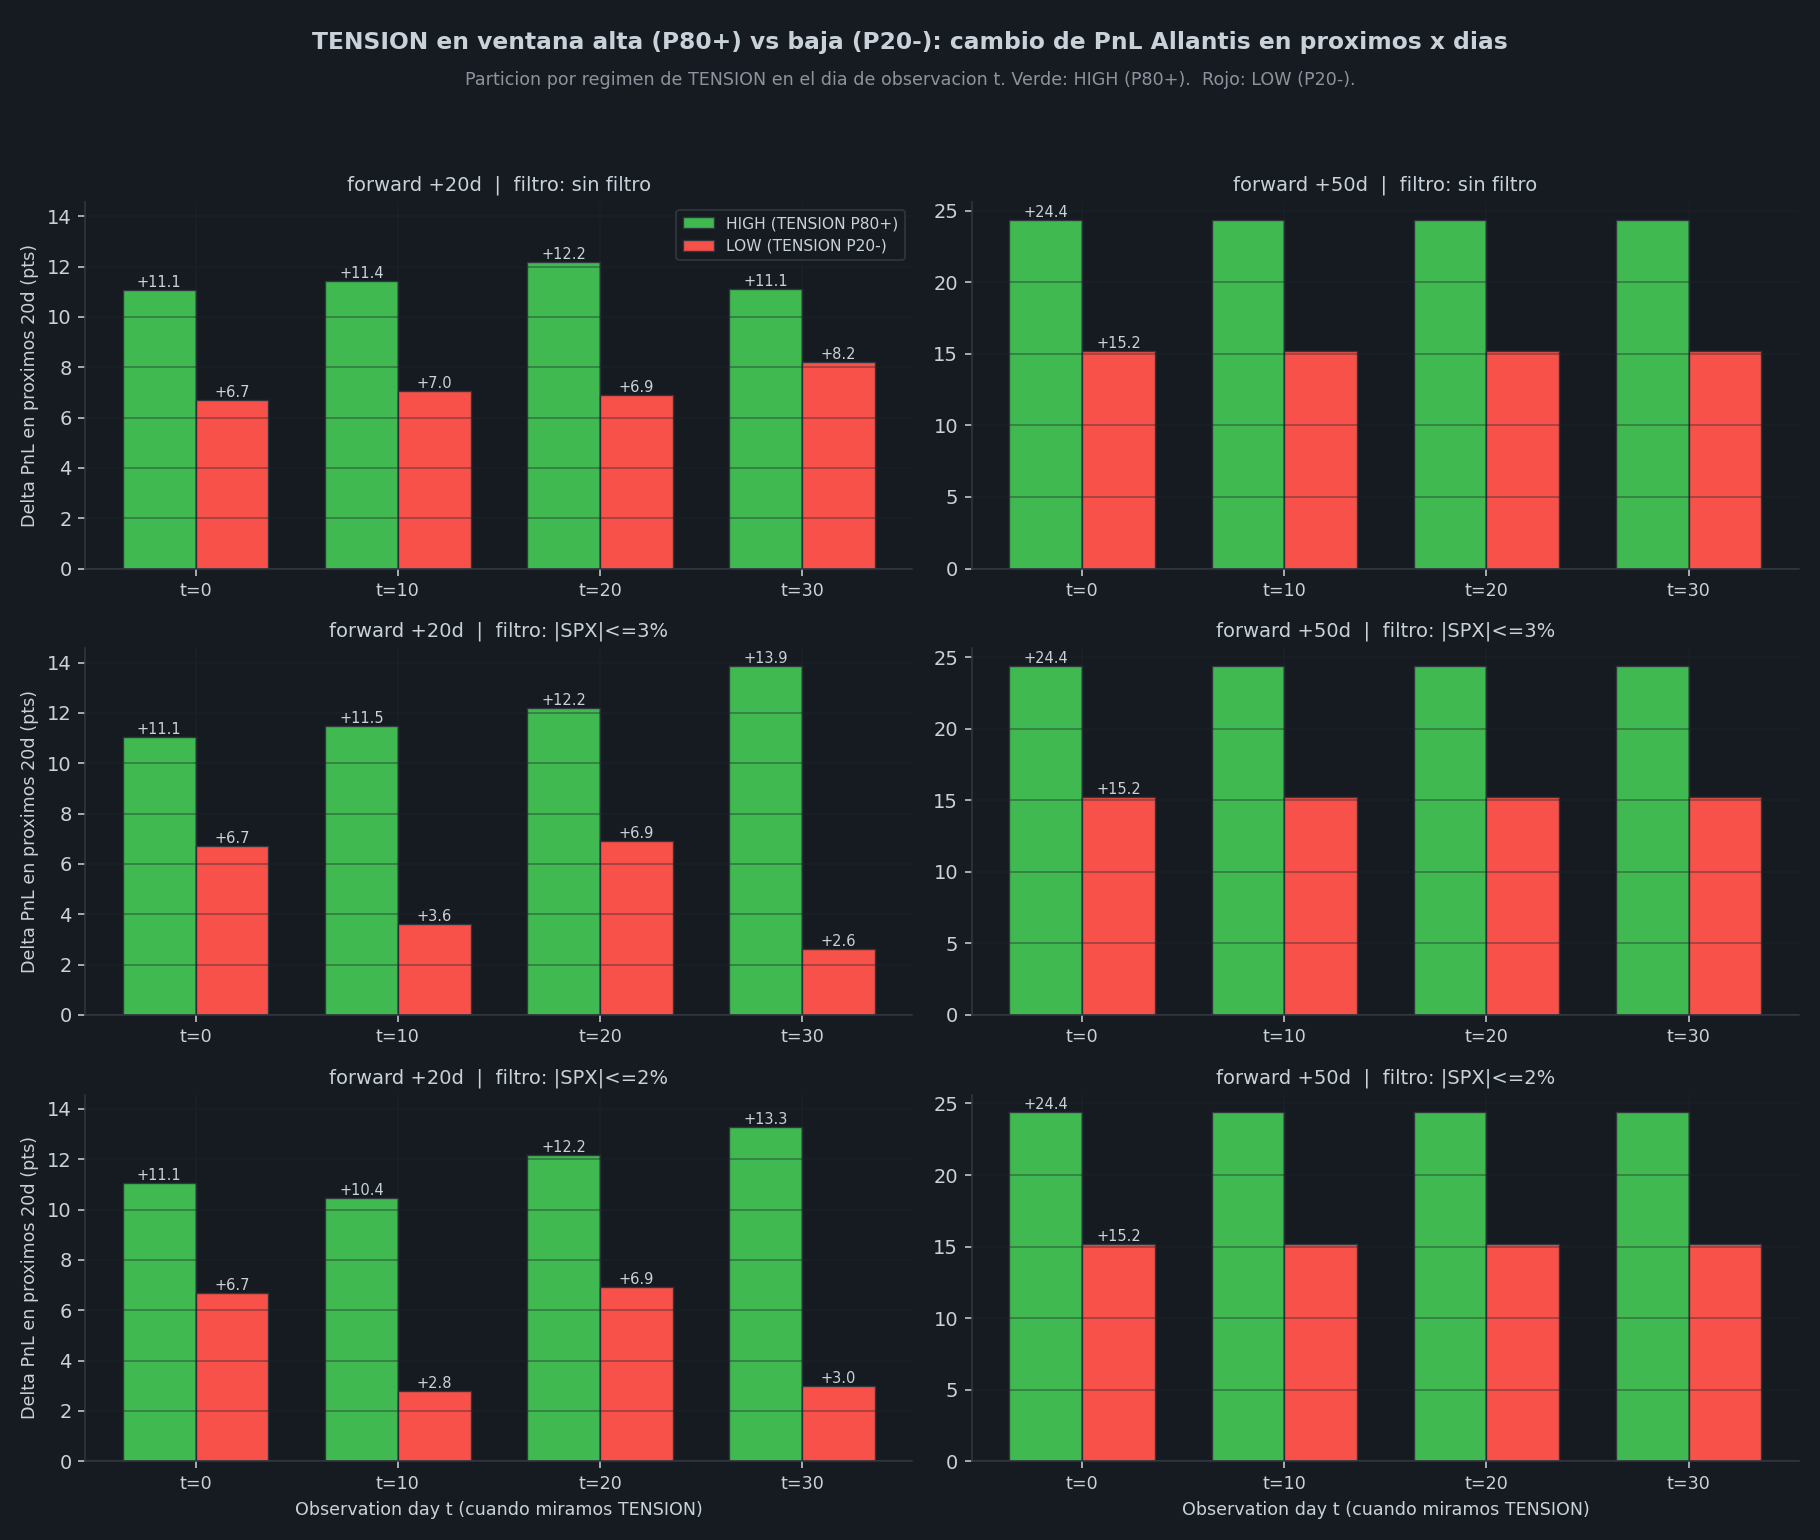
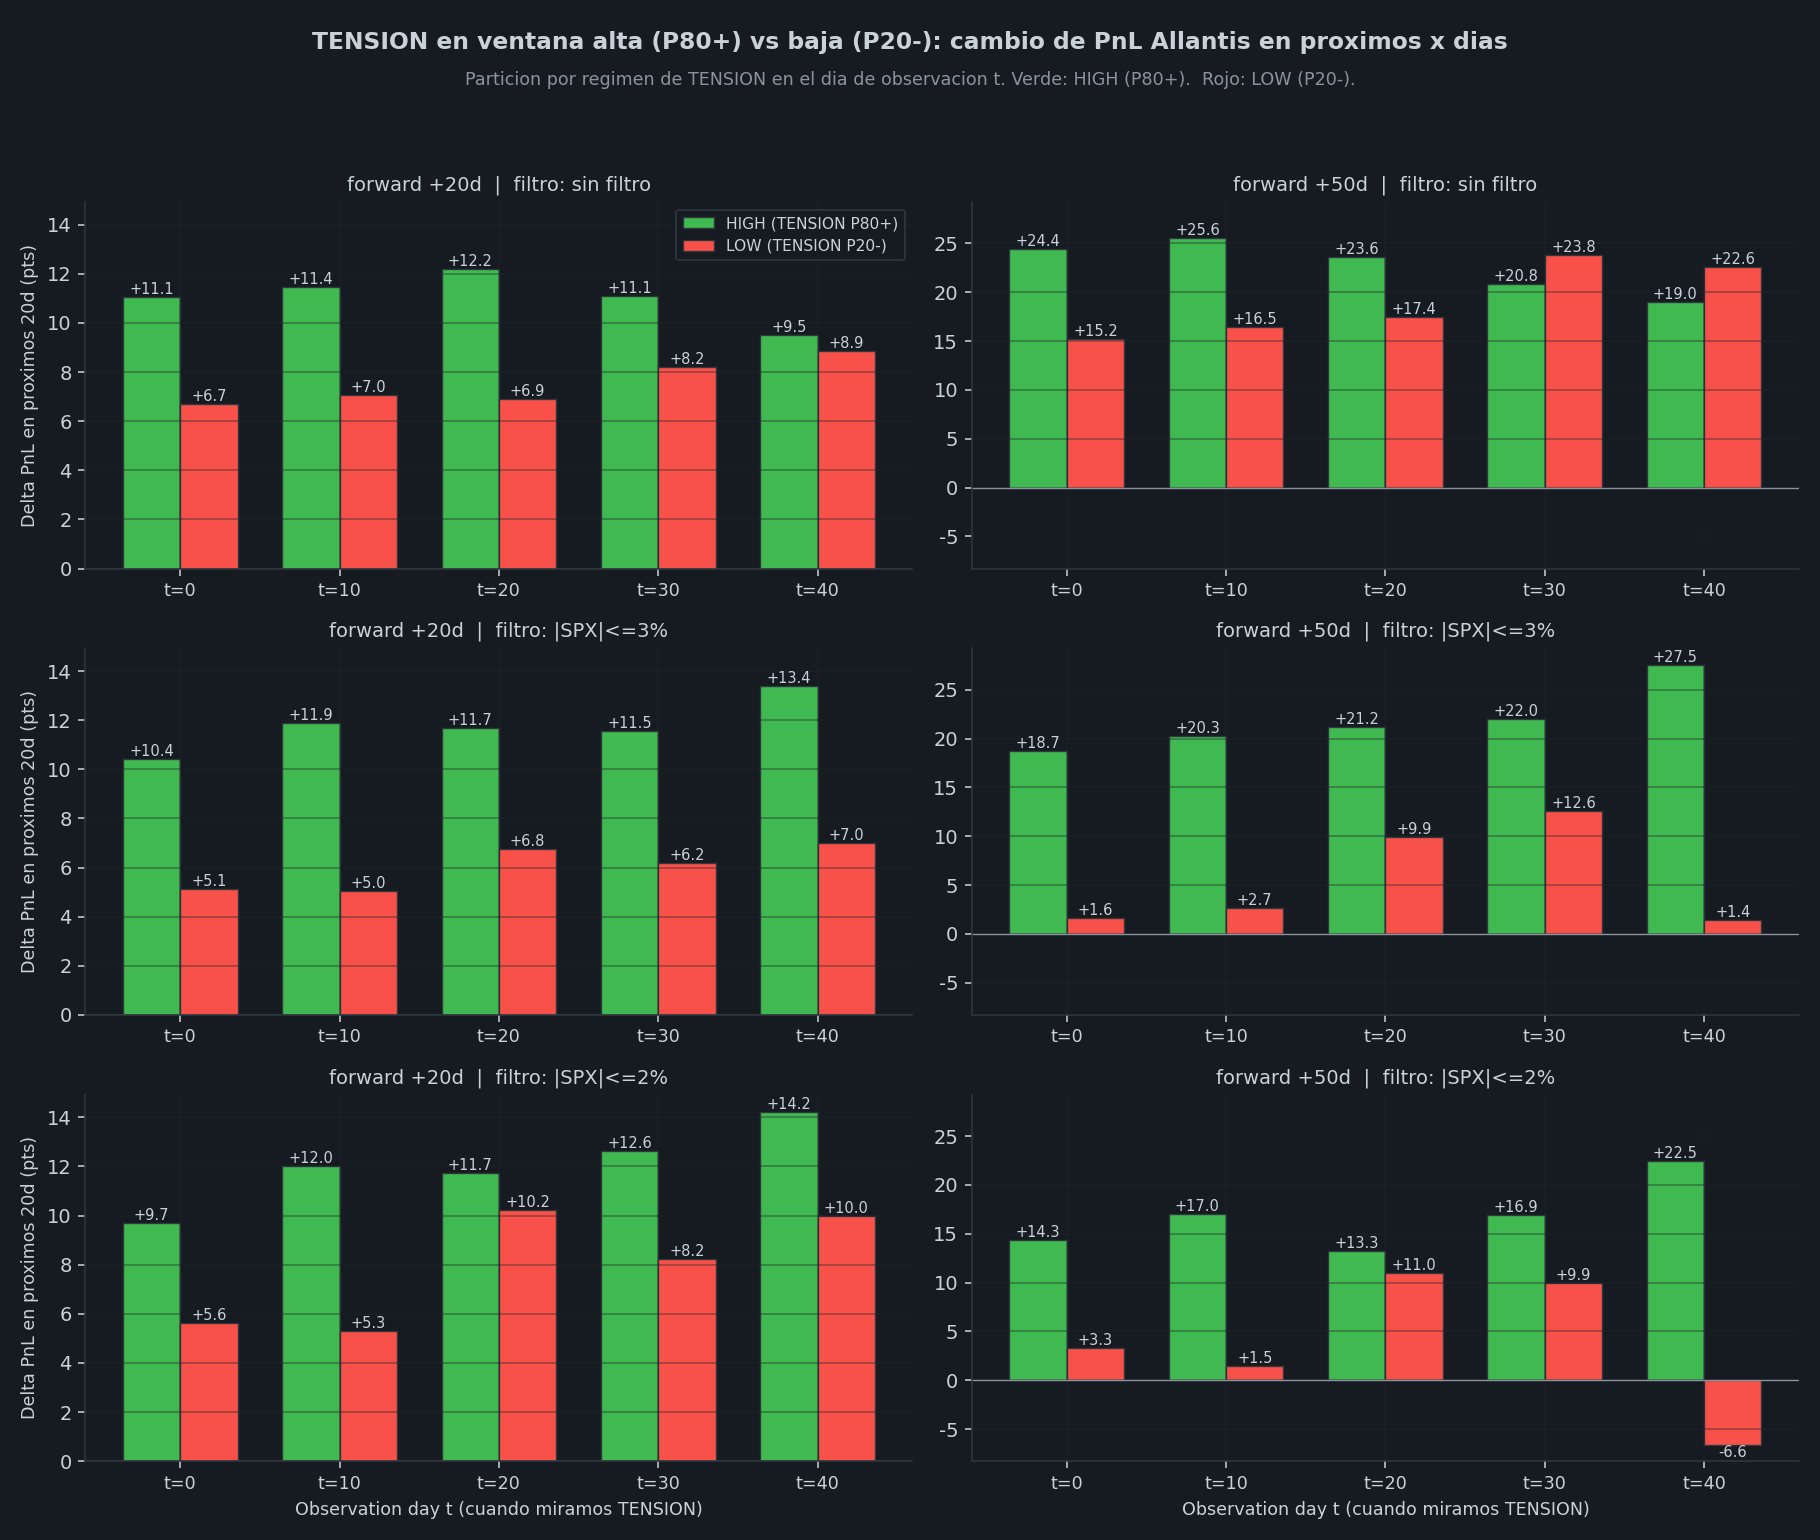
fix(window-forward): load PnL_d050..d090 + harden plot vs missing cells

diff --git a/generate_evidence.py b/generate_evidence.py
@@ -217,7 +217,14 @@ def load_dataset() -> Dataset:
         raise FileNotFoundError(f"TENSION daily CSV not found: {TENSION_DAILY_CSV}")
 
     pnl_cols = [f"PnL_d{d:03d}_mediana" for d in WINDOWS]
-    extra_cols = [f"PnL_d{PNL_REF_HORIZON:03d}_mediana", "PnL_d050_mediana", SPX_FILTER_COL]
+    # Window-forward needs PnL_d{t+x} where t in WF_OBS_DAYS and x in WF_FORWARDS
+    # max(t+x) = 40 + 50 = 90, so we need to load PnL_d050..d090 in addition to d001..d049
+    wf_extra_pnl = [f"PnL_d{d:03d}_mediana" for d in range(50, 91)]
+    wf_extra_spx = [f"SPX_chg_pct_d{d:03d}" for d in WF_OBS_DAYS + [t + x for t in WF_OBS_DAYS for x in WF_FORWARDS] if d > 0]
+    extra_cols = list(dict.fromkeys(
+        [f"PnL_d{PNL_REF_HORIZON:03d}_mediana", "PnL_d050_mediana", SPX_FILTER_COL]
+        + wf_extra_pnl + wf_extra_spx
+    ))
     needed_no_dia = set(pnl_cols + extra_cols)
 
     # Allantis: BOM UTF-8, date column is 'dia'.
@@ -858,24 +865,37 @@ def plot_window_forward(wf: pd.DataFrame, out_path: Path) -> bool:
 
     filters_order = WF_SPX_FILTERS
     forwards = WF_FORWARDS
-    obs_days = sorted([int(t) for t in wf["t"].unique()])
+    # Use fixed WF_OBS_DAYS (NOT wf["t"].unique()) so missing cells appear as gaps,
+    # NOT broadcast/silently-omitted. This prevents the chart from showing same value
+    # repeated when a column was missing for some t.
+    obs_days = list(WF_OBS_DAYS)
     n_obs = len(obs_days)
 
     fig, axes = plt.subplots(3, 2, figsize=(13, 11), sharey="col")
     for i, flt in enumerate(filters_order):
         for j, fwd in enumerate(forwards):
             ax = axes[i][j]
-            sub = wf[(wf["spx_filter"] == flt) & (wf["x"] == fwd)].sort_values("t")
-            if sub.empty:
+            sub = wf[(wf["spx_filter"] == flt) & (wf["x"] == fwd)]
+            # Reindex against full obs_days; missing rows become NaN (not broadcast)
+            sub = sub.set_index("t").reindex(obs_days)
+            if sub["high_mean"].isna().all():
                 ax.text(0.5, 0.5, "no data", ha="center", va="center", color=DARK_MUTED)
+                ax.set_xticks(np.arange(n_obs))
+                ax.set_xticklabels([f"t={t}" for t in obs_days], fontsize=9)
+                ax.set_title(f"forward +{fwd}d  |  filtro: {flt}", fontsize=10)
                 continue
             x = np.arange(n_obs)
             w = 0.36
-            ax.bar(x - w / 2, sub["high_mean"].values, w, color=COLOR_FAV,
-                   edgecolor=DARK_BORDER, linewidth=0.7,
+            high_vals = sub["high_mean"].to_numpy(dtype=float)
+            low_vals = sub["low_mean"].to_numpy(dtype=float)
+            high_mask_finite = np.isfinite(high_vals)
+            low_mask_finite = np.isfinite(low_vals)
+            # Plot only finite bars (NaN positions left empty as visual gap)
+            ax.bar(x[high_mask_finite] - w / 2, high_vals[high_mask_finite], w,
+                   color=COLOR_FAV, edgecolor=DARK_BORDER, linewidth=0.7,
                    label="HIGH (TENSION P80+)" if (i == 0 and j == 0) else None)
-            ax.bar(x + w / 2, sub["low_mean"].values, w, color=COLOR_ADV,
-                   edgecolor=DARK_BORDER, linewidth=0.7,
+            ax.bar(x[low_mask_finite] + w / 2, low_vals[low_mask_finite], w,
+                   color=COLOR_ADV, edgecolor=DARK_BORDER, linewidth=0.7,
                    label="LOW (TENSION P20-)" if (i == 0 and j == 0) else None)
             ax.axhline(0, color=DARK_MUTED, linewidth=0.7)
             ax.set_xticks(x)
@@ -885,18 +905,23 @@ def plot_window_forward(wf: pd.DataFrame, out_path: Path) -> bool:
                 ax.set_ylabel(f"Delta PnL en proximos {fwd}d (pts)", fontsize=9)
             if i == 2:
                 ax.set_xlabel("Observation day t (cuando miramos TENSION)", fontsize=9)
-            for k, (h_, lo_, nh, nl) in enumerate(zip(
-                sub["high_mean"].values, sub["low_mean"].values,
-                sub["N_high"].values, sub["N_low"].values
-            )):
+            for k in range(n_obs):
+                h_ = high_vals[k]
+                lo_ = low_vals[k]
                 if np.isfinite(h_):
                     ax.text(k - w / 2, h_, f"{h_:+.1f}",
                             ha="center", va="bottom" if h_ >= 0 else "top",
                             color=DARK_TEXT, fontsize=7.5)
+                else:
+                    ax.text(k - w / 2, 0, "n/a", ha="center", va="bottom",
+                            color=DARK_MUTED, fontsize=7.5, alpha=0.6)
                 if np.isfinite(lo_):
                     ax.text(k + w / 2, lo_, f"{lo_:+.1f}",
                             ha="center", va="bottom" if lo_ >= 0 else "top",
                             color=DARK_TEXT, fontsize=7.5)
+                else:
+                    ax.text(k + w / 2, 0, "n/a", ha="center", va="bottom",
+                            color=DARK_MUTED, fontsize=7.5, alpha=0.6)
             if i == 0 and j == 0:
                 ax.legend(loc="upper right", fontsize=8, framealpha=0.9,
                           facecolor=DARK_PANEL, edgecolor=DARK_BORDER)
